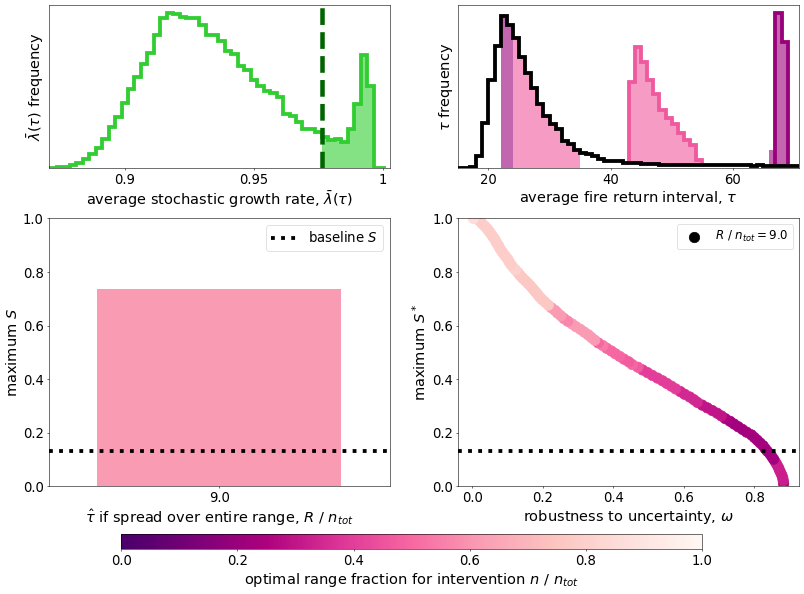
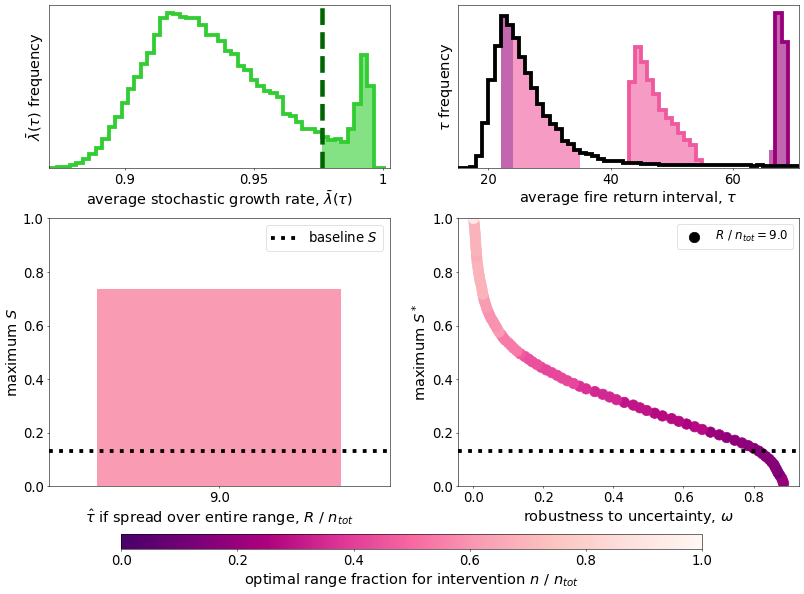
Making all mu parameters negative makes shift left stronger
which is surprising/confusing

diff --git a/sensitivity/phase_mcsampled.py b/sensitivity/phase_mcsampled.py
@@ -90,9 +90,9 @@ else:
         # 'C': 5.*pproc.ncell_tot,
         # 'ncell': int(1. * pproc.slice_right_max),
         # 'slice_left': int(1.*pproc.ncell_tot),
-        'mu_tau': 6.,
+        'mu_tau': 0.,
         'sigm_tau': 10.,
-        'mu_tauc': 0.6,
+        'mu_tauc': 0.0,
         'sigm_tauc': 0.5,
         'demographic_index': len(metric_spl_all) - 1
     }
